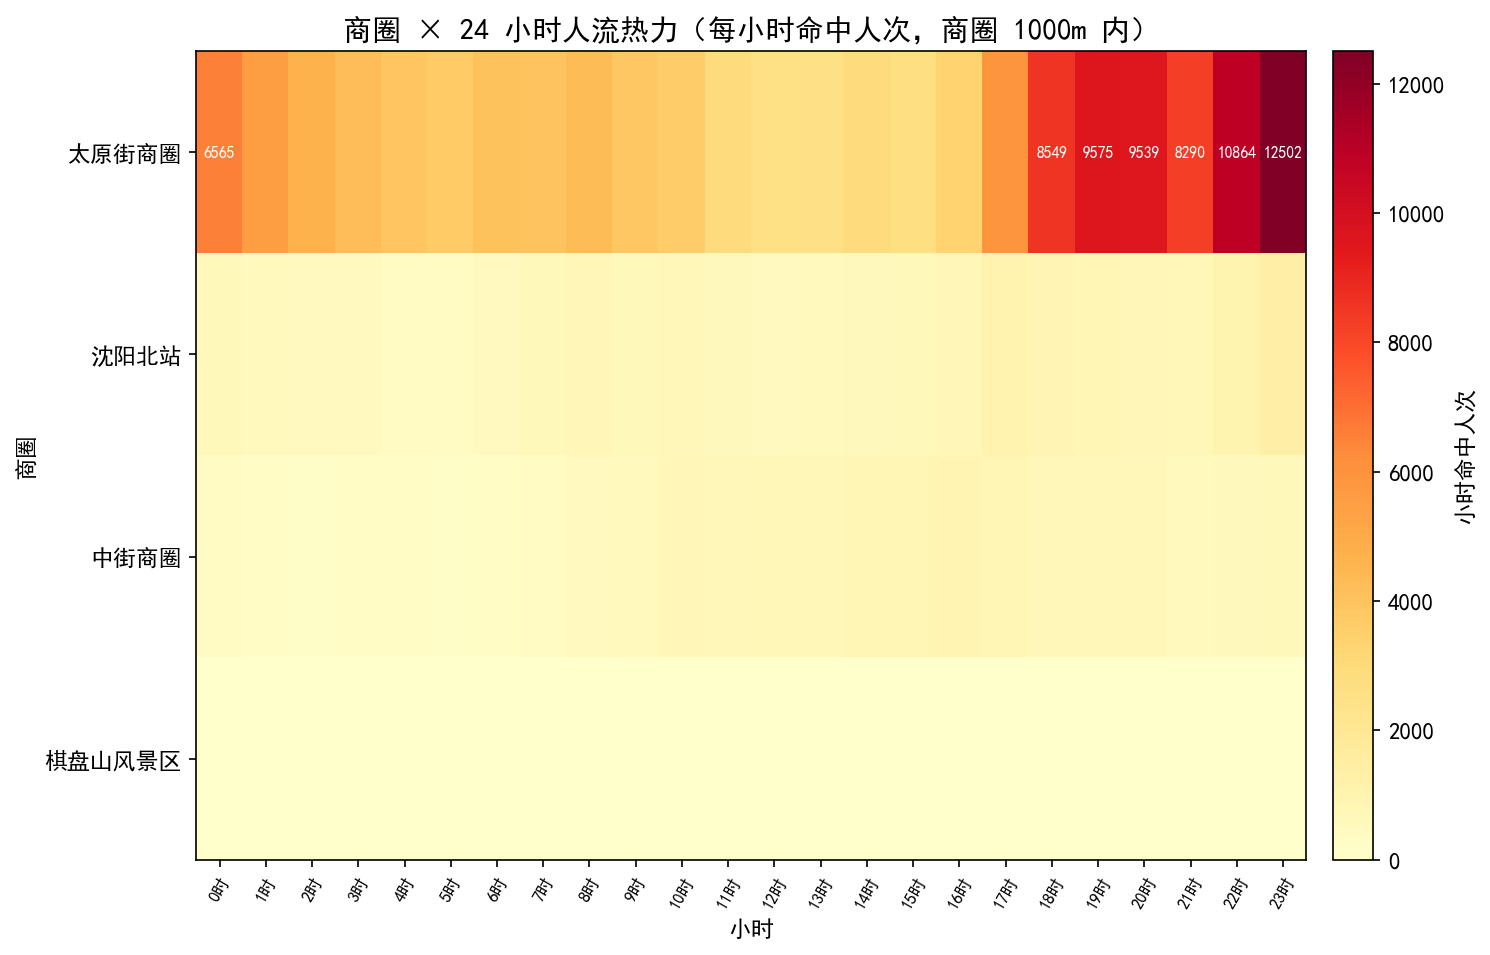
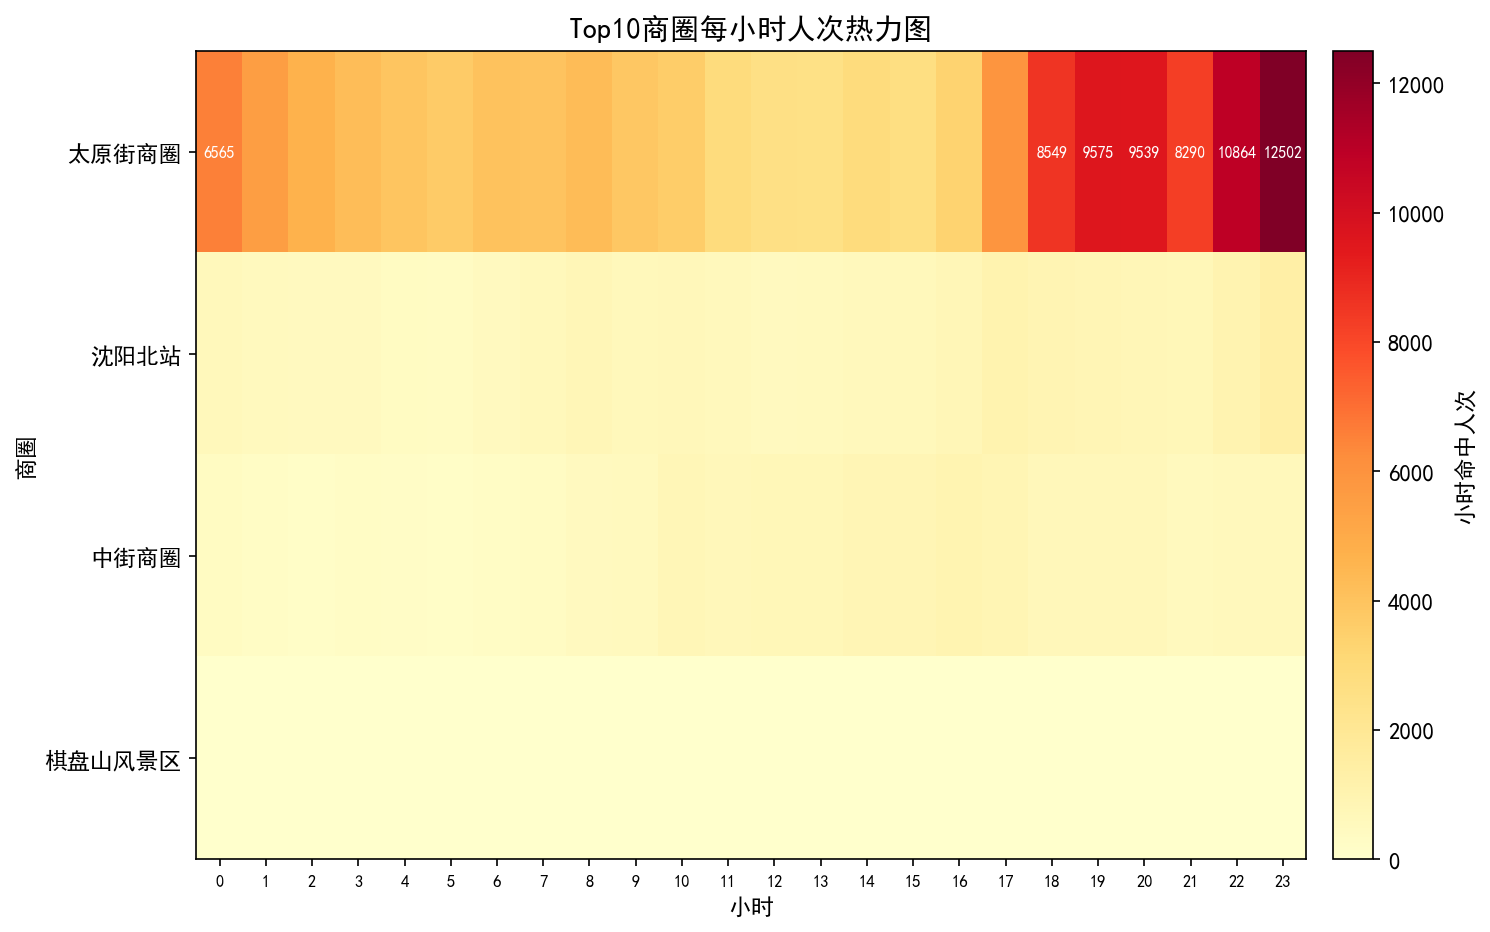
feat(图表): 六张图外观向老师示例图靠拢
- 图1 饼图去掉扇区弹出，点数移到右侧图例，百分比白字压在色块上
- 图2 出行线下方加淡红填充，标题简化为「24 小时出行 / 驻留点分布」
- 图3/图4 柱底加横向虚线网格并置于柱下
- 图5 标题改为示例同款「Top10商圈每小时人次热力图」，横轴刻度去掉「时」字与倾斜；
  命中半径 1000m 的口径说明移入 docstring，图上不再带后缀
- 图6 标题改为「Top5用户3D移动轨迹（经度-纬度-时间）」
- _save 统一加 bbox_inches="tight"，裁掉画布四周空白同时保住外置图例

diff --git a/visualize.py b/visualize.py
@@ -42,7 +42,9 @@ USER_COLORS = ["#9467bd", "#ff7f0e", "#1f77b4", "#8c564b", "#17becf"]
 
 
 def _save(fig, path):
-    fig.savefig(path)
+    # bbox_inches="tight" 与示例代码同款：既裁掉画布四周的空白，又保证贴到边界外的
+    # 图例（图1）不会被切掉一半。
+    fig.savefig(path, bbox_inches="tight")
     plt.close(fig)
     log(f"  图已保存 {path}")
 
@@ -52,13 +54,24 @@ def _hour_of(series):
 
 
 def plot_stage3_pie(label_df):
-    """图1：驻留/出行占比饼图。"""
+    """图1：驻留/出行占比饼图。
+
+    排版按示例图：扇区不弹出，百分比写在扇区内，具体点数放在右侧图例里，
+    这样饼图本体不会被「驻留 13,000 点」这种长标签挤变形。
+    """
     stay = int((label_df["label"] == 0).sum())
     travel = int((label_df["label"] == 1).sum())
     fig, ax = plt.subplots(figsize=(6, 6))
-    ax.pie([stay, travel], labels=["驻留", "出行"], autopct="%1.1f%%",
-           colors=[GREEN, RED], startangle=90, explode=[0, 0.06])
-    ax.set_title(f"阶段3：出行/驻留占比（共 {stay + travel:,} 点）")
+    # 带 autopct 时 ax.pie 返回三元组（wedges, labels, percentages）
+    wedges, _, autotexts = ax.pie([stay, travel], autopct="%1.1f%%",
+                                  colors=[GREEN, RED], startangle=90,
+                                  wedgeprops={"edgecolor": "white", "linewidth": 1})
+    for t in autotexts:                                # 黑字压在深绿/深红上看不清
+        t.set_color("white")
+        t.set_fontsize(11)
+    ax.legend(wedges, [f"驻留（{stay:,} 点）", f"出行（{travel:,} 点）"],
+              loc="center left", bbox_to_anchor=(0.98, 0.5), frameon=False)
+    ax.set_title(f"出行 / 驻留标签分布（共 {stay + travel:,} 点）")
     _save(fig, config.FIG_STAGE3_PIE)
 
 
@@ -78,6 +91,8 @@ def plot_hour_line(label_df):
     fig, ax = plt.subplots(figsize=(11, 6.5))
     for start, end, name in config.PEAK_HOURS:         # 底纹只是标注，不参与判定
         ax.axvspan(start, end, color="#1f77b4", alpha=.10)
+    # 出行线下方淡红填充：示例图就有这块底，红线本身在 24 个点里不容易读面积
+    ax.fill_between(hours, travel.values, color=RED, alpha=.10)
     ax.plot(hours, stay.values, marker="o", color=GREEN, label="驻留点")
     ax.plot(hours, travel.values, marker="^", color=RED, label="出行点")
     ax.set_xlabel("小时")
@@ -98,8 +113,7 @@ def plot_hour_line(label_df):
                 arrowprops=dict(arrowstyle="->", color=RED, lw=1.2),
                 color=RED, fontsize=9)
 
-    fig.suptitle(f"24 小时出行 / 驻留点分布（同一坐标叠画：驻留量级约为出行的 "
-                 f"{stay.sum() / max(travel.sum(), 1):.0f} 倍）")
+    fig.suptitle("24 小时出行 / 驻留点分布")
     fig.tight_layout(rect=(0, 0, 1, 0.96))
     _save(fig, config.FIG_HOUR_LINE)
 
@@ -114,6 +128,8 @@ def _plot_cat_bar(counts, order, colors, path, ylabel, title, total):
     ax.set_ylim(0, max(values) * 1.25)
     ax.set_ylabel(ylabel)
     ax.set_title(title)
+    ax.grid(axis="y", linestyle="--", alpha=.4)      # 示例图柱底有横向虚线网格
+    ax.set_axisbelow(True)
     _save(fig, path)
 
 
@@ -152,6 +168,9 @@ def plot_heatmap(heat_df):
     色标全表共用绝对刻度，不按行归一化：否则棋盘山（全天 79）会画得和太原街（13 万）一样红。
     数字只写深色格（>= 全表最大值一半），示例图就是这个画法；行尾不加「峰值 X」列，
     那列文字会把 xlim 撑出去、在矩阵右边拉出一条再没有内容的白边。
+
+    标题照示例图写「Top10商圈每小时人次热力图」，不带口径后缀；命中半径
+    config.HEATMAP_MATCH_THRESHOLD 米（当前 1000m，最近商圈）这条只在色标和这里说明。
     """
     heat_df = heat_df.sort_values("全天合计", ascending=False).head(HEATMAP_TOP)
     names = heat_df["biz_name"]
@@ -162,7 +181,7 @@ def plot_heatmap(heat_df):
     fig, ax = plt.subplots(figsize=(11.5, 1.45 * len(M) + 1.2))
     im = ax.imshow(values, aspect="auto", cmap="YlOrRd",
                    vmin=0, vmax=vmax)
-    ax.set_xticks(range(24), [f"{h}时" for h in range(24)], fontsize=8, rotation=60)
+    ax.set_xticks(range(24), [str(h) for h in range(24)], fontsize=8)
     ax.set_yticks(range(len(M)), names)
     for i, row in enumerate(values):
         for j, v in enumerate(row):
@@ -175,8 +194,7 @@ def plot_heatmap(heat_df):
     ax.set_ylim(len(M) - 0.5, -0.5)
     ax.set_xlabel("小时")
     ax.set_ylabel("商圈")
-    ax.set_title(f"商圈 × 24 小时人流热力（每小时命中人次，商圈 "
-                 f"{config.HEATMAP_MATCH_THRESHOLD}m 内）")
+    ax.set_title("Top10商圈每小时人次热力图")
     fig.colorbar(im, ax=ax, label="小时命中人次", pad=0.02)
     _save(fig, config.FIG_HEATMAP)
 
@@ -210,7 +228,7 @@ def plot_3d_traj(label_df):
     ax.set_xlabel("经度")
     ax.set_ylabel("纬度")
     ax.set_zlabel("时间(小时)")
-    ax.set_title(f"Top{len(top_users)} 用户 3D 时空轨迹（红三角=出行 / 绿圆点=驻留）")
+    ax.set_title(f"Top{len(top_users)}用户3D移动轨迹（经度-纬度-时间）")
     ax.legend(fontsize=8)
     ax.view_init(elev=25, azim=50)
     _save(fig, config.FIG_3D_TRAJ)
